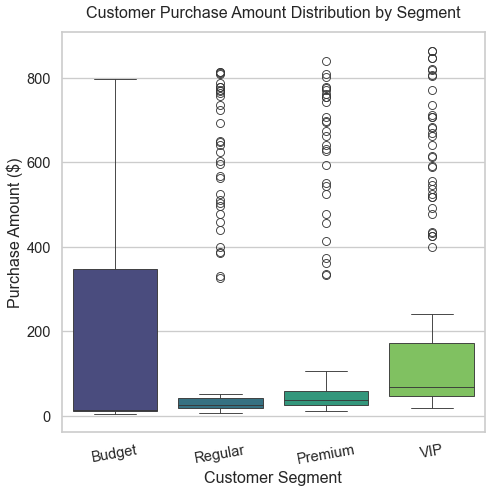
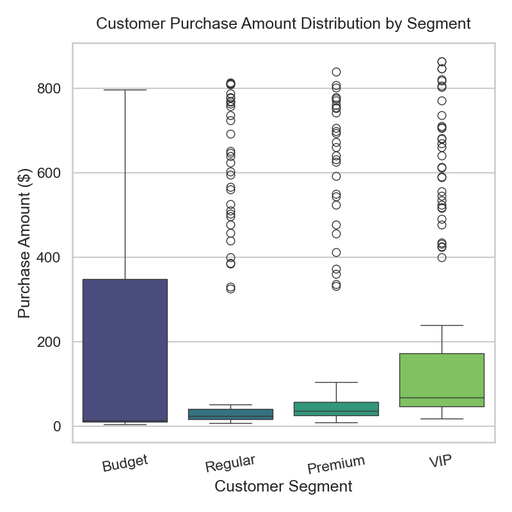
Add seaborn visualization and README

Changed region(s): [[0.0, 0.0, 1.0, 1.0], [0.4286, 0.5488, 0.4592, 0.5793]]

diff --git a/chart.py b/chart.py
@@ -2,12 +2,11 @@ import numpy as np
 import pandas as pd
 import seaborn as sns
 import matplotlib.pyplot as plt
+from PIL import Image
 
 # ---------------------------------------------------------
-# Synthetic customer purchase data for different segments
+# Synthetic customer purchase data by segment
 # ---------------------------------------------------------
-
-# Random seed for reproducibility
 np.random.seed(42)
 
 segments = ["Budget", "Regular", "Premium", "VIP"]
@@ -17,18 +16,17 @@ data = []
 
 for segment in segments:
     if segment == "Budget":
-        # Lower spend, tighter spread
         purchases = np.random.lognormal(mean=2.5, sigma=0.35, size=n_customers_per_segment)
     elif segment == "Regular":
         purchases = np.random.lognormal(mean=3.0, sigma=0.4, size=n_customers_per_segment)
     elif segment == "Premium":
         purchases = np.random.lognormal(mean=3.5, sigma=0.45, size=n_customers_per_segment)
-    else:  # VIP
+    else:
         purchases = np.random.lognormal(mean=4.0, sigma=0.5, size=n_customers_per_segment)
 
-    # Add a few high-spend outliers per segment
+    # Add occasional outliers
     outliers = np.random.choice([0, 0, 0, 1], size=n_customers_per_segment)
-    purchases = purchases + outliers * np.random.uniform(300, 800, size=n_customers_per_segment)
+    purchases += outliers * np.random.uniform(300, 800, size=n_customers_per_segment)
 
     for amt in purchases:
         data.append({"Customer_Segment": segment, "Purchase_Amount": amt})
@@ -36,19 +34,15 @@ for segment in segments:
 df = pd.DataFrame(data)
 
 # ---------------------------------------------------------
-# Seaborn styling (professional look)
+# Styling
 # ---------------------------------------------------------
-
 sns.set_style("whitegrid")
-sns.set_context("talk")  # suitable for presentations
+sns.set_context("talk")
 
 # ---------------------------------------------------------
-# Create the figure and boxplot
+# Create boxplot (any size is fine now)
 # ---------------------------------------------------------
-
-# 8x8 inches with dpi=64 → 512x512 pixels
-plt.figure(figsize=(8, 8))
-
+plt.figure(figsize=(8, 8))  # initial canvas (not final size)
 ax = sns.boxplot(
     data=df,
     x="Customer_Segment",
@@ -56,23 +50,19 @@ ax = sns.boxplot(
     palette="viridis"
 )
 
-ax.set_title(
-    "Customer Purchase Amount Distribution by Segment",
-    pad=16,
-    fontsize=18
-)
+ax.set_title("Customer Purchase Amount Distribution by Segment", pad=16)
 ax.set_xlabel("Customer Segment")
 ax.set_ylabel("Purchase Amount ($)")
-
-# Rotate x-axis labels slightly for readability
 plt.xticks(rotation=10)
-
-# Tight layout for clean spacing
 plt.tight_layout()
 
-# ---------------------------------------------------------
-# Save chart as 512x512 PNG
-# ---------------------------------------------------------
-
-plt.savefig("chart.png", dpi=64, bbox_inches="tight")
+# Save temporary chart
+plt.savefig("chart_temp.png", dpi=100)
 plt.close()
+
+# ---------------------------------------------------------
+# FORCE FINAL OUTPUT TO EXACTLY 512x512 PIXELS
+# ---------------------------------------------------------
+img = Image.open("chart_temp.png")
+final_img = img.resize((512, 512), Image.LANCZOS)
+final_img.save("chart.png")
